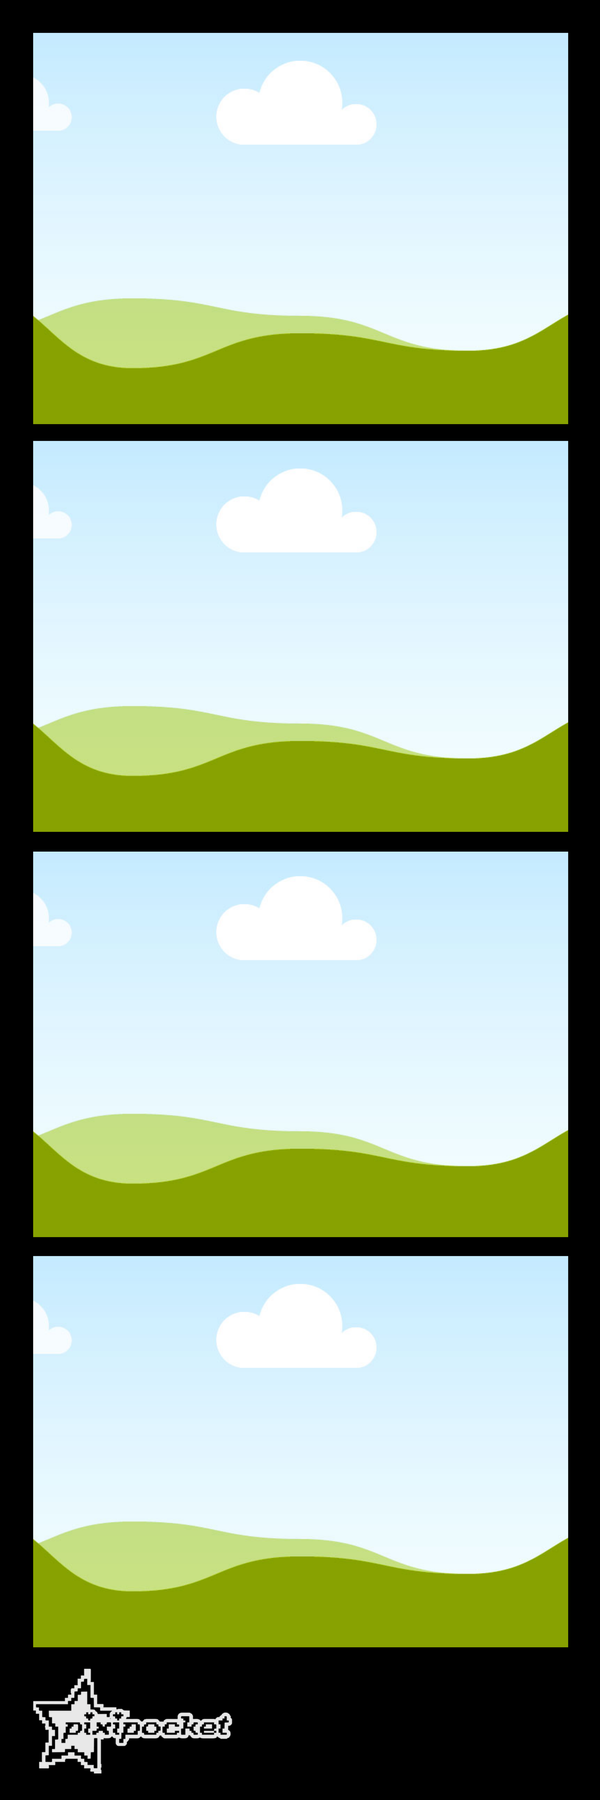
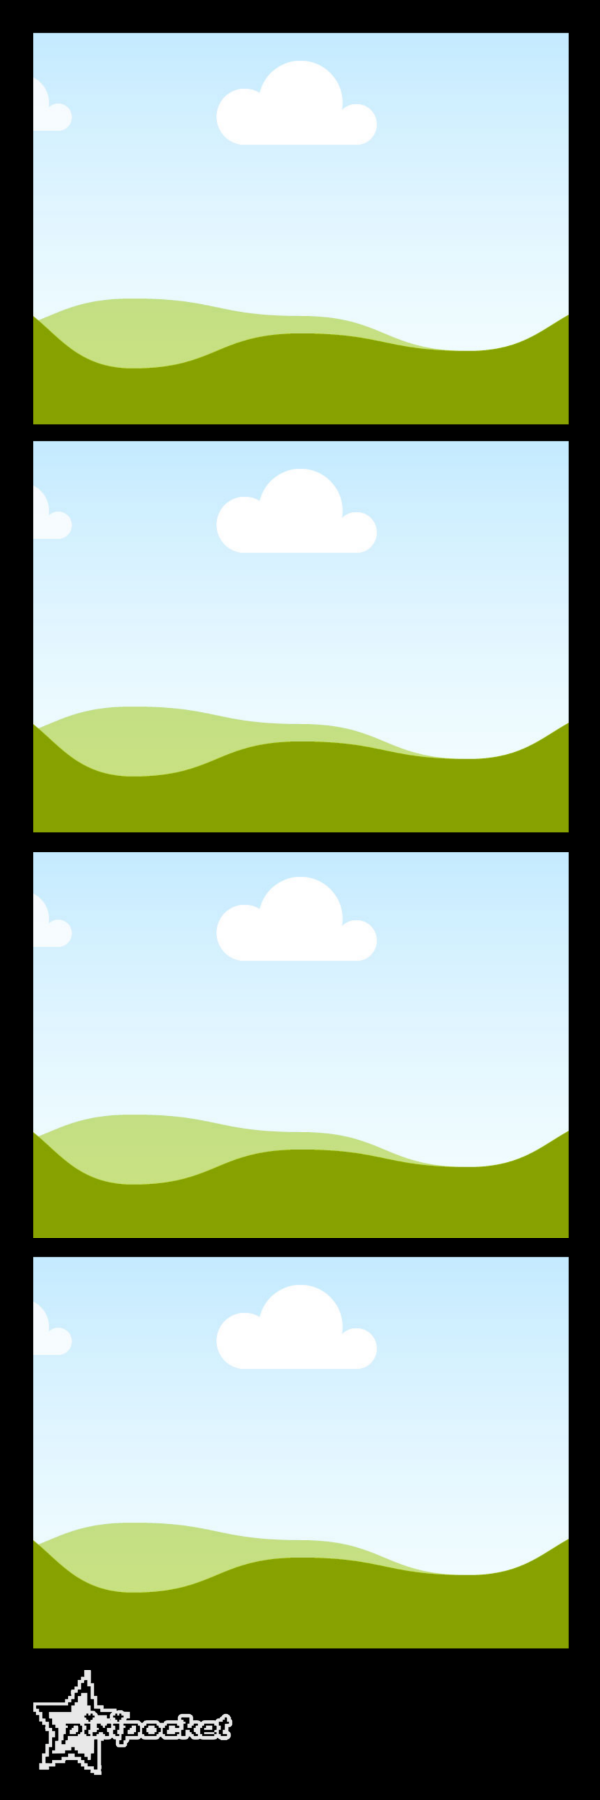
Claude/awesome cori 3ycybg (#1)
* Use official color strip SVG artwork and fix strip color picker

Re-rasterize public/strips/*.png from the official SVGs in
assets/color photo strips (the old rasters no longer matched them) and
re-measure the photo windows and date line against the new artwork.
The picker read swatch/logo fields that no longer exist, so the color
squares rendered blank; read swatch/dark/hex from TEMPLATES instead, and
keep all 10 squares on one row in the wide layout.

Claude-Session: https://claude.ai/code/session_01WpNAuDr5rZ2xfUcxAKwMLr

* Show SNAP photo thumbnails in a 2×2 grid

Larger previews of the captured photos; thumbnails render at 360 px to
stay sharp at the bigger size.

Claude-Session: https://claude.ai/code/session_01WpNAuDr5rZ2xfUcxAKwMLr

---------

Changed region(s): [[0.06, 0.9333, 0.39, 0.9956]]

diff --git a/pixibooth-ipad/components/StyleScreen.tsx b/pixibooth-ipad/components/StyleScreen.tsx
@@ -159,7 +159,7 @@ export function StyleScreen({ state, engine }: { state: BoothState; engine: Boot
                 role="img"
                 aria-label={`${TEMPLATES[template].label} strip with ${FILTERS[filter].label} filter`}
                 className={`block h-full w-full ${template === "white" ? "ring-1 ring-pp-blue-line" : ""}`}
-                style={{ background: TEMPLATES[template].background }}
+                style={{ background: TEMPLATES[template].hex }}
               />
             </div>
             {/* Frame source for the preview; never shown, never captured. */}
@@ -196,13 +196,13 @@ export function StyleScreen({ state, engine }: { state: BoothState; engine: Boot
           </Button>
         </div>
 
-        {/* Strip colors: rounded squares; the selected one blinks like an arcade cursor. */}
+        {/* Strip colors: rounded squares (one row when wide); the selected one blinks like an arcade cursor. */}
         <section data-enter style={{ gridArea: "colors" }} className="flex min-h-0 flex-col gap-3">
           <h2 className="flex flex-wrap items-baseline gap-x-3 font-label text-base font-bold uppercase tracking-[0.18em] text-pp-blue">
             Strip color <Jp className="opacity-80">色</Jp>
             <span className="font-pixel text-lg normal-case tracking-normal text-pp-navy">{TEMPLATES[template].label}</span>
           </h2>
-          <div role="radiogroup" aria-label="Strip color" className="grid grid-cols-4 justify-items-start gap-4 wide:flex wide:flex-wrap wide:gap-5 [@media(max-height:500px)]:flex [@media(max-height:500px)]:flex-wrap">
+          <div role="radiogroup" aria-label="Strip color" className="grid grid-cols-4 justify-items-start gap-4 wide:flex wide:items-start wide:gap-[clamp(10px,1.5vw,20px)] [@media(max-height:500px)]:flex [@media(max-height:500px)]:flex-wrap">
             {TEMPLATE_ORDER.map((t) => {
               const selected = t === template;
               const style = TEMPLATES[t];
@@ -221,12 +221,12 @@ export function StyleScreen({ state, engine }: { state: BoothState; engine: Boot
                     engine.setTemplate(t);
                     bump(cards.current[t]);
                   }}
-                  className={`relative flex size-16 shrink-0 items-center justify-center rounded-xl wide:size-[clamp(56px,9.5vh,92px)] focus-visible:outline-3 focus-visible:outline-offset-4 focus-visible:outline-pp-navy ${
+                  className={`relative flex size-16 shrink-0 items-center justify-center rounded-xl wide:aspect-square wide:size-auto wide:min-w-0 wide:shrink wide:basis-[clamp(56px,9.5vh,92px)] focus-visible:outline-3 focus-visible:outline-offset-4 focus-visible:outline-pp-navy ${
                     selected ? "animate-ring-blink" : "ring-1 ring-pp-navy/20"
                   }`}
-                  style={{ background: style.background }}
+                  style={{ background: style.swatch }}
                 >
-                  {selected && <PixelStar size={18} color={style.logo === "white" ? "#FFFFFF" : "var(--pp-navy)"} />}
+                  {selected && <PixelStar size={18} color={style.dark ? "#FFFFFF" : "var(--pp-navy)"} />}
                 </button>
               );
             })}

diff --git a/pixibooth-ipad/lib/photostrip.ts b/pixibooth-ipad/lib/photostrip.ts
@@ -16,15 +16,15 @@ export const STRIP = {
   slotHeight: 390,
   /** Date stamp: right-aligned to the frames' right edge, on the artwork logo's center line. */
   dateRight: 569,
-  dateCenterY: 1724,
+  dateCenterY: 1722,
 } as const;
 
 /** Photo windows of the official strip artwork, in 600×1800 px (measured; identical for every color). */
 export const SLOTS = [
   { x: 33, y: 32, w: 536, h: 393 },
-  { x: 33, y: 440, w: 536, h: 392 },
-  { x: 33, y: 851, w: 536, h: 387 },
-  { x: 33, y: 1255, w: 536, h: 393 },
+  { x: 33, y: 440, w: 536, h: 393 },
+  { x: 33, y: 852, w: 536, h: 386 },
+  { x: 33, y: 1256, w: 536, h: 393 },
 ] as const;
 
 export const SLOT_ASPECT = STRIP.slotWidth / STRIP.slotHeight;
@@ -45,7 +45,12 @@ export type TemplateStyle = {
   hex: string;
   /** CSS background of the picker swatch. */
   swatch: string;
-  /** Official strip artwork, rasterized at 600×1800 from assets/color photo strips/<name> strip.svg. */
+  /**
+   * Official strip artwork, rasterized at 600×1800 from assets/color photo strips/<name> strip.svg
+   * (canvas can't reliably draw those image-embedding SVGs on iPad Safari). The SVG's opaque strip
+   * (viewBox 0,0.4 to 72,215) is scaled uniformly to 1800 px tall and centered, trimming ~2 px of
+   * solid border per side; nothing is redrawn or stretched.
+   */
   src: string;
   /** Date stamp color. */
   dateInk: string;

diff --git a/pixibooth-ipad/components/CaptureProgress.tsx b/pixibooth-ipad/components/CaptureProgress.tsx
@@ -40,7 +40,7 @@ function SlotThumb({
         }`}
       >
         {photo ? (
-          <FilteredPhoto photo={photo} filter={filter} width={240} alt={`Photo ${index + 1}`} />
+          <FilteredPhoto photo={photo} filter={filter} width={360} alt={`Photo ${index + 1}`} />
         ) : (
           <div className="flex h-full w-full items-center justify-center font-helvetica text-[clamp(1.1rem,2.8vh,1.6rem)] text-pp-blue-deep/60">{n}</div>
         )}
@@ -66,7 +66,7 @@ export function CaptureProgress({
   activeSlot: number | null;
 }) {
   return (
-    <div className="grid grid-cols-4 gap-2.5" aria-label="Photos taken">
+    <div className="grid grid-cols-2 gap-2.5" aria-label="Photos taken">
       {photos.map((photo, i) => (
         <SlotThumb key={i} photo={photo} index={i} filter={filter} active={activeSlot === i} />
       ))}

diff --git a/pixibooth-ipad/components/PhotostripPreview.tsx b/pixibooth-ipad/components/PhotostripPreview.tsx
@@ -60,7 +60,7 @@ export function PhotostripPreview({
       role="img"
       aria-label={`${TEMPLATES[template].label} photostrip preview`}
       className={`block h-full w-full ${template === "white" ? "ring-1 ring-pp-blue-line" : ""} ${className}`}
-      style={{ background: TEMPLATES[template].background }}
+      style={{ background: TEMPLATES[template].hex }}
     />
   );
 }

diff --git a/pixibooth-ipad/README.md b/pixibooth-ipad/README.md
@@ -1,6 +1,6 @@
 # pixipocket — iPad photo booth (Phase 1 prototype)
 
-A browser-only photo booth with a cobalt-and-white, pixel-art "Japanese ID-photo kiosk" look. Flow: **welcome → style (8 strip colors + 3 filters, previewed live on the customers themselves) → camera → four 5-second shots with pose tips and countdown sounds → Keep screen (strip + one optional retake + mock QR) → animated thank-you → back to welcome**. The strip is a real 600×1800 px (2×6 in at 300 ppi) PNG with the pixipocket logo and date in its footer. Nothing is uploaded and the QR is a non-functional illustration. Photos live in memory for the current session only.
+A browser-only photo booth with a cobalt-and-white, pixel-art "Japanese ID-photo kiosk" look. Flow: **welcome → style (10 strip colors + 3 filters, previewed live on the customers themselves) → camera → four 5-second shots with pose tips and countdown sounds → Keep screen (strip + one optional retake + mock QR) → animated thank-you → back to welcome**. The strip is a real 600×1800 px (2×6 in at 300 ppi) PNG with the pixipocket logo and date in its footer. Nothing is uploaded and the QR is a non-functional illustration. Photos live in memory for the current session only.
 
 ## Run on a Mac
 
@@ -46,7 +46,7 @@ Booth tips: keep the iPad in **landscape** (groups fit better). Turn on **Guided
 |---|---|
 | `lib/boothEngine.ts` | Finite state machine (template → filter → camera → countdown/capture/pose-break → review → result), rAF/`performance.now` timers, cancellation tokens, pause/resume, wake lock, shutter sound. Lives outside React. |
 | `lib/camera.ts` | `CameraAdapter` interface + `BrowserCameraAdapter` (getUserMedia, center-cover-cropped and optionally mirrored still capture, error mapping). Swap this for a future PC/DSLR adapter. |
-| `lib/photostrip.ts` | 600×1800 layout, the 8 strip colors (with black/white logo choice), and `renderStrip()` / `renderStripPng()` used by thumbnails, preview and export. Footer = real logo PNG bottom-left, date (`DD.MM.YYYY`) directly below. |
+| `lib/photostrip.ts` | 600×1800 layout, the 10 strip colors (name, swatch, official artwork, date color) in one `TEMPLATES` table, and `renderStrip()` / `renderStripPng()` used by thumbnails, preview and export. The logo is part of the artwork (`public/strips/<color>.png`, rasterized from `assets/color photo strips/`); the date (`YYYY年M月D日`) is drawn bottom-right on the logo's center line. |
 | `lib/filters.ts` | Three filters (Auto = original, Vintage = the Canva warm-B&W recipe, Dream Film = see `lib/dreamFilm.ts`) as pure canvas pixel operations, so iPad Safari exports match the preview; CSS approximations for the live camera only. |
 | `lib/dreamFilm.ts` | Dream Film: the editable `DREAM_FILM` preset and a 5-stage WebGL pipeline (grade → soft focus → bloom → grain → edge fade) used for the live camera, previews and saved photos alike; CPU fallback in `filters.ts`. |
 | `lib/poses.ts` | Pose-tip catalog; four distinct prompts per session (cute, cheeky, stylish, freestyle). |
